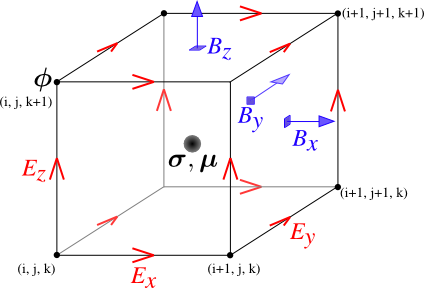
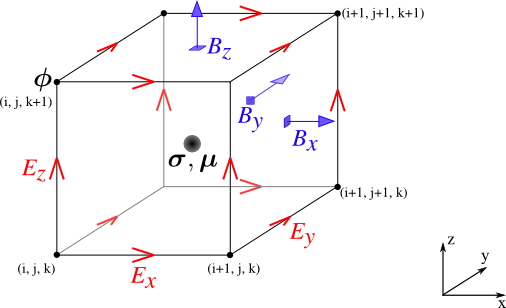
Finished boundary conditions, DC forward modelling and Maxwell discretization pages (or at least a draft of them).

diff --git a/content/maxwell2_steady_state/Maxwell_Discretization.rst b/content/maxwell2_steady_state/Maxwell_Discretization.rst
@@ -9,26 +9,55 @@ It is possible to construct a discretization based on either the integral or dif
 
 Discrete approximations of Maxwell's equations used in geophysical prospecting fall into three general categories based on the complexity of earth model they can represent. The simplest discretizations assume that conductivity varies only with depth but not laterally. The subsurface can then be divided into a set of flat layers, with physical properties constant in each layer.
 
-One may model a much larger class of geoelectric structures by assuming that conductivity may vary with depth and in one lateral direction. This is known as 2D modelling and requires dividing a two-dimensional (2D) section of the earth into a set of discrete polygons, usually rectangles or triangles. This provides a compromise between the computational difficulty of full 3D modelling and the limitations of 1D modelling. Of course, to model the most complex terrain and conductivity variation, three-dimensional (3D modelling is required. In 3D modelling the earth is divided into a set of discrete volumes, usually cuboids or tetrahedra, with physical properties constant in each cell. These three types of earth models, with their increasing complexity, are illustrated in figure :fig:`./images/1-2-3.png`.
+One may model a much larger class of geoelectric structures by assuming that conductivity may vary with depth and in one lateral direction. This is known as 2D modelling and requires dividing a two-dimensional (2D) section of the earth into a set of discrete polygons, usually rectangles or triangles. This provides a compromise between the computational difficulty of full three-dimensional (3D) modelling and the limitations of 1D modelling. Of course, to model the most complex terrain and conductivity variation, 3D modelling is required. In 3D modelling the earth is divided into a set of discrete volumes, usually cuboids or tetrahedra, with physical properties constant in each cell. These three types of earth models, with their increasing complexity, are illustrated in figure 1.
 
-.. figure:: ./images/1-2-3.png
-  
-  Increasing complexity with increasing dimensionality
+.. figure:: ./images/1-2-3.png 
+
+  Visualization of 1D, 2D, and 3D discretizations.
 
 1D modelling methods write the electric and magnetic fields due to a source above a layered earth in terms of `Hankel transform <https://en.wikipedia.org/wiki/Hankel_transform>`_ integrals that are evaluated approximately. Two and three dimensional frequency domain discretizations transform Maxwell's equations into a system of linear algebraic equations for the electric field or magnetic flux density at discrete points in space, at a single frequency. In all these methods there is a tradeoff between solution accuracy and computational complexity. A finer mesh will lead to a more accurate solution but also to a larger linear system that must be solved to compute the fields or fluxes.
 
-Now let us restrict our attention to three dimensions. There are several ways to discretize Maxwell's equations in 3D, including finite difference, finite element and finite volume approaches. Almost all discretizations of Maxwell's equations used in geophysical prospecting apply the quasi-static approximation, meaning that they ignore the electric displacement term :math:`-i\omega\mathbf{D}` in :ref:`Ampere's law <ampere_maxwell>`. To give one brief example, we will describe a mimetic finite volume discretization of Maxwell's equations on a staggered grid. We divide the earth into a set of cubes. 
+Now let us restrict our attention to three dimensions. There are several ways to discretize Maxwell's equations in 3D, including finite difference, finite element and finite volume approaches. Here we consider a mimetic finite volume approach applied to a uniform grid. For a full description see chapters 3 and 4 of [1]_. Consider Faraday's law and the quasi-static Ampere's law in the frequency domain
 
+.. math::
+  \boldsymbol{\nabla\times}\mathbf{E} = -i\omega\mathbf{B}
+  :label: FaradayAnal
+  
+.. math::
+  \boldsymbol{\nabla\times}\mu^{-1}\mathbf{B} - \sigma\mathbf{E} = \mathbf{J}_s,
+  :label: AmpereAnal
 
+where :math:`\mathbf{J}_s` is the source current density and currents flowing in the ground are represented using Ohm's law, :math:`\mathbf{J}_{\text{ground}} = \sigma\mathbf{E}`. Almost all discretizations of Maxwell's equations used in geophysical prospecting apply the quasi-static approximation, meaning that they ignore the electric displacement term :math:`-i\omega\mathbf{D}` in :ref:`Ampere's law <ampere_maxwell>`. In broad terms, ignoring displacement is justified when the area of interest is smaller than the source wavelength. See [2]_ for more information.
 
-
-In 3D we do this:
+We divide the earth into a grid of cubic cells. The edges of the grid are aligned with the axes of a cartesian coordinate system, as shown in figure 12. The x-directed component of the electric field is discretely represented by it's values at the centre of cell edges that point in the x-direction. The y and z components of the electric field are similarly represented at the centres of the y and z-directed cell edges. In the parlance of partial differential equations, we say that :math:`\mathbf{E}` is discretized on the cell edges. The magnetic flux density :math:`\mathbf{b}` is discretized at the centres of cell faces. When electrical potential is considered (in electrostatic problems) it is discretized at cell corners, called the mesh nodes.
 
 .. figure:: ./images/Yee-cube-w-b.png
 
-  Yee cube with e on edges, b on faces, phi on nodes, phys properties at cell centres
+  Cubic cell with :math:`\mathbf{E}` discretized onto cell edges, :math:`\mathbf{b}` onto cell faces, and physical properties onto cell centres. Electrical potential :math:`\phi` is discretized onto the mesh nodes.
 
-Accuracy goes up with number of cells but so does the computational complexity.
+By constructing discrete approximations to the differential operators in equations :eq:`FaradayAnal` and :eq:`AmpereAnal`, we can construct a system of equations to solve for the electric field at the cell edges and/or the magnetic flux at cell faces. The discrete versions of equations are :eq:`FaradayAnal` and :eq:`AmpereAnal`
 
-[Insert graphic showing error and time vs num cells, alongside mesh].
+.. math::
+  \mathbf{C} \tilde{\mathbf{E}} -i\omega\tilde{\mathbf{B}} = 0
+  :label: FarDiscrete
+  
+.. math::
+  \mathbf{C}^T \mathbf{M}_{\mu^{-1}}^f \tilde{\mathbf{B}} - \mathbf{M}_{\sigma}^e\tilde{\mathbf{E}} = \tilde{\mathbf{s}},
+  :label: AmpDiscrete
+  
+where:
 
+ - \\( \\mathbf{C} \\) is the discrete curl operator (all discrete operators are sparse matrices)
+ - \\( \\mathbf{M}_{\\sigma}^e \\) contains information on the discrete conductivity
+ - \\( \\mathbf{M}_{\\mu}^f \\) contains information on the discrete magnetic permeability
+ - \\( \\tilde{\\mathbf{E}} \\) is a vector containing the approximate electric field at each cell edge
+ - \\( \\tilde{\\mathbf{B}} \\) is a vector containing the approximate magnetic flux at each cell face.
+ - \\( \\tilde{\\mathbf{s}} \\) is a vector containing an approximation of the source discretized onto the cell edges.
+
+We can now combine equations :eq:`FarDiscrete` and :eq:`AmpDiscrete` and use the methods of sparse linear algebra to solve a large system of equations to determine :math:`\tilde{\mathbf{e}}` and :math:`\tilde{\mathbf{b}}` simultaneously. We can also combine the two equations to form two smaller systems of equations to solve for :math:`\tilde{\mathbf{e}}` and :math:`\tilde{\mathbf{b}}` independently.
+ 
+References
+----------
+.. [1] Haber, Eldad. Computational Methods in Geophysical Electromagnetics. Society for Industrial and Applied Mathematics, Philadelphia, 2015.
+
+.. [2] Ward, Stanley H. and Gerald W. Hohmann. Electromagnetic Theory for Geophysical Applications. In Electromagnetic Methods in Applied Geophysics, Volume 1. Ed. Misac N. Nabighian. Society of Exploration Geophysicists, Tulsa, 1988.

diff --git a/content/maxwell1_fundamentals/fundamental_laws/boundary_conditions.rst b/content/maxwell1_fundamentals/fundamental_laws/boundary_conditions.rst
@@ -32,7 +32,7 @@ Recall also that :math:`\mathbf{d}` and :math:`\mathbf{h}` are related to :math:
 
 where :math:`\varepsilon` denotes the dielectric permittivity and :math:`\mu` denotes the magnetic permeability.
 
-In the following derivations, we consider a two layer medium where each layer has its corresponding physical properties. The subindices 1 and 2 denote dependency on layer 1 and layer 2, respectively. This is illustrated in Figure 1. Our derivations follow those presented by Griffiths on pages xx-yy of [1]_.
+In the following derivations, we consider a two layer medium where each layer has its corresponding physical properties. The subindices 1 and 2 denote dependency on layer 1 and layer 2, respectively. This is illustrated in Figure 5. Our derivations follow those presented by Griffiths on pages xx-yy of [1]_.
 
 .. figure:: images/twoLayerMedium.png
     :align: center
@@ -52,7 +52,7 @@ Normal Component of Electric Displacement
     Gaussian pillbox. 
 
 
-Consider an extremely small Gaussian pillbox of height h and cross-sectional area :math:`S_{\text{top}} = \pi r_{\text{top}}^2`. The pillbox is shown in figure 2. To derive the boundary condition on the normal component of electric displacement, denoted as :math:`d_{n}`, we apply Gauss's law formulated in terms of electric displacement (equation :eq:`GaussEint`) to the pillbox, giving
+Consider an extremely small Gaussian pillbox of height h and cross-sectional area :math:`S_{\text{top}} = \pi r_{\text{top}}^2`. The pillbox is shown in figure 6. To derive the boundary condition on the normal component of electric displacement, denoted as :math:`d_{n}`, we apply Gauss's law formulated in terms of electric displacement (equation :eq:`GaussEint`) to the pillbox, giving
 
 
 .. math::
@@ -84,7 +84,7 @@ Normal Component of Magnetic Flux
 The interface condition on the normal component of the magnetic flux, denoted as :math:`\mathbf{b}_{n}`, is derived from the integral form of Gauss's law for the magnetic flux. We follow the exact argument as for the electric displacement, see previous section. However, since the right hand side of :ref:`Gauss's law<gauss_magnetic>` is always zero, we have the interface condition on the normal magnetic flux
 
 .. math::
-  \mathbf{b}_{1n} - \mathbf{b}_{2n} = \mathbf{0}.
+  b_{1n} - b_{2n} = 0.
   
 Tangential Component of the Electric Field
 ------------------------------------------
@@ -96,28 +96,35 @@ Tangential Component of the Electric Field
 
     Gaussian rectangle. 
 
-The boundary condition on the tangential component of the electric field, denoted as :math:`\mathbf{e}_{t}`, is derived from :ref:`Faraday's law<faraday>` in integral form. Consider Faraday's law applied to the rectangle of height :math:`h` and width :math:`l` shown in Figure 1, with surface normal parallel to the interface. As with the Gaussian pillbox in the electric displacement derivation, we assume the rectangle to be small enough that the tangential electric field is constant on both horizontal edges. Then, we take the limit as :math:`h` approaches 0 while holding :math:`l` constant, which means the contour integral in :ref:`Faraday's law<faraday>` becomes
+The boundary condition on the tangential component of the electric field, denoted as :math:`e_{t}`, is derived from :ref:`Faraday's law<faraday>` in integral form. Consider Faraday's law applied to the extremely small rectangle of height :math:`h` and width :math:`l` shown in Figure 7, with surface normal parallel to the interface. As with the Gaussian pillbox in the electric displacement derivation, we assume the rectangle to be small enough that the tangential electric field is constant on both horizontal edges. This allows us to evaluate the components of the contour integral on the top and bottom edges of the rectangle, giving
 
 .. math::
-  \oint_C \mathbf{e}\cdot \mathbf {d}\mathbf{l} = \mathbf{e}_{1t}l - \mathbf{e}_{2t}l,
+  \oint_C \mathbf{e}\cdot \mathbf {d}\mathbf{l} = e_{1t}l - e_{2t}l + \int_{-h}^h e_n(x=-l/2) \mathrm{d}z - \int_{-h}^h e_n(x=+l/2) \mathrm{d}z = -\int_A \frac{\partial \mathbf{b}}{\partial t}\cdot \hat{\mathbf{n}}\,\mathrm{d}a,
 
-where :math:`\mathbf{e}_{1t}` and :math:`\mathbf{e}_{2t}` are the tangential components of the electric field on the top and bottom edges of the Gaussian rectangle, respectively. Taking :math:`h` to 0 also causes the surface integral on the right hand side of :ref:`Faraday's law<faraday>` to vanish, implying the interface condition
+where :math:`e_{1t}` and :math:`e_{2t}` are the tangential components of the electric field on the top and bottom edges of the Gaussian rectangle, respectively, and :math:`e_n` is the normal component of :math:`\mathbf{e}`. I
+
+In the limit as :math:`h` approaches 0 while holding :math:`l` constant, the remaining integral terms vanish, leaving
 
 .. math::
-  \mathbf{e}_{1t} - \mathbf{e}_{2t} = \mathbf{0}.
+   e_{1t}l - e_{2t}l = 0.
+
+Dividing by :math:`l` yields the interface condition
+
+.. math::
+  e_{1t} - e_{2t} = 0.
 
 Tangential Component of the Magnetic Field
 ------------------------------------------
 
-The interface condition on the tangential component of the magnetic field, denoted as :math:`\mathbf{h}_t`, is derived from the integral form of the :ref:`Ampere-Maxwell equation<ampere_maxwell>` applied to the same Gaussian rectangle as for the tangential electric field. Using the same reasoning as for the electric field (see previous section), we have
+The interface condition on the tangential component of the magnetic field, denoted as :math:`h_t`, is derived from the integral form of the :ref:`Ampere-Maxwell equation<ampere_maxwell>` applied to the same Gaussian rectangle as for the tangential electric field. Using the same reasoning as for the tangential electric field (see previous section), we have
 
 .. math::
-  \oint_C \mathbf{h}\cdot \mathbf{d}\mathbf{l} = \mathbf{h}_{1t}l - \mathbf{h}_{2t}l.
+  \oint_C \mathbf{h}\cdot \mathbf{d}\mathbf{l} = h_{1t}l - h_{2t}l = I_{\text{enclosed}}.
 
-In the limit that the height of the Gaussian rectangle approaches zero, the electric displacement integral term vanishes and the current enclosed by the rectangle can be represented as a surface current density on the interface :math:`j_{\text{surf}}` times the width of the rectangle :math:`l`. This gives
+In the limit that the height of the Gaussian rectangle approaches zero, the current enclosed by the rectangle :math:`I_{\text{enclosed}}` can be represented as a surface current density on the interface :math:`j_{\text{surf}}` times the width of the rectangle :math:`l`. This gives
 
 .. math::
-  h_{1t}l - h_{2t}l = j_{\text{surf}} l
+  h_{1t}l - h_{2t}l = j_{\text{surf}} l.
 
 Cancelling the :math:`l` terms in the above expression, yields the interface condition on the tangential magnetic field
 

diff --git a/content/maxwell2_steady_state/Forward_Modelling.rst b/content/maxwell2_steady_state/Forward_Modelling.rst
@@ -152,7 +152,7 @@ Discretization
 
 For an arbitrary conductivity model, equation xx cannot be solved exactly. In order to simulate a geophysical survey over an earth with a complicated conductivity distribution we need to solve an approximate discrete form of equation xx. Equation 4 
 
-The equation can be discretized directly using, for example, standard finite difference, finite element, or finite volume methods[need reference]. However if we use a mimetic discretization of the full Maxwell equations, we can derive a discretization of the DC equation from the discrete Maxwell equations. For a brief discussion of the discretization of Maxwell's equation, see the section :ref:`Maxwell_Discretization` on this website.Our notation follows that page.
+The equation can be discretized directly using, for example, standard finite difference, finite element, or finite volume methods[need reference]. However if we use a mimetic discretization of the full Maxwell equations, we can derive a discretization of the DC equation from the discrete Maxwell equations. For a brief discussion of the discretization of Maxwell's equation, see the section :ref:`Maxwell_Discretization` on this website. Our notation follows that page.
 
 The discrete potential field condition is :math:`\tilde{\mathbf{e}} = \mathbf{G}\tilde{\phi}`. Substituting that into the discrete time-domain quasi-static Ampere equation gives
 
@@ -174,14 +174,14 @@ Our discretization preserves the identity :math:`\boldsymbol{\nabla\cdot}\left(\
 Two-Dimensional Modelling Examples
 ----------------------------------
 
-We applied 2D forward modelling to a synthetic model based on a geological section from the Mt. Isa prospect. A 2D geological section from a paper was pasted onto a mesh of rectangular cells
+We applied 2D forward modelling to a synthetic model based on a geological section from the Mt. Isa prospect. A 2D geological section from [insert link to the paper once we figure out how it's going to be introduced in the resource] was pasted onto a mesh of rectangular cells as shown in the following figure.
 
 .. figure:: ./images/section_w_mesh.png
   
   Geological section pasted onto 2D modelling mesh.
 
-We solved a 2D version of equation :eq:`DCresDiscrete` to compute the potential on the nodes of our mesh. We can compute synthetic data by differencing the potential at surface nodes and visualize it in pseudosection form. Note that
-pseudosections do not represent the true geology. Note how the two pseudosections below differ significantly depending on whether the data is collected from west to east or east to west. Here is an example for a single pole source
+The conductivities of each unit were given in the case study paper. We solved a 2D version of equation :eq:`DCresDiscrete` using a single pole source to compute the potential on the nodes of our mesh. To compute synthetic dipole receiver data we assume that the poles of the receiver lie on surface mesh nodes and take the difference in computed potential between those nodes. The data can then be visualized in pseudosection form. Note that
+pseudosections do not represent the true geology. This is illustrated in the two pseudosections below. In the first, data was collected from west to east (left to right on the page) and in the second data was collected from east to west. We can see that the data differ significantly depending on the survey direction.
 
 .. figure:: ./images/Pseudo_PDP_East.gif
 
@@ -191,10 +191,10 @@ pseudosections do not represent the true geology. Note how the two pseudosection
 
   Data for pole moving west to east.
 
-We can also visualize where current flows and where charge buildup occurs for a single pole source:
+Using 2D forward modelling, we can also visualize where current flows and where charge buildup occurs in our single pole source experiment. The interactive figure below shows how current flows through the earth for a given source location. Note in particular how current is channelled into the conductive circular unit and away from the steeply dipping resistive units. We can also clearly see charge buildup occuring at the interfaces between units.
 
 .. raw:: html
   :file: ./images/Isa_Current.html
 
-Current density (arrows) and charge density (color) for a range of source location (Powered by: SimPEG).
+Current density (arrows) and charge density (color) for a range of source locations (Powered by: `SimPEG <http://www.simpeg.xyz/>`_).
   
